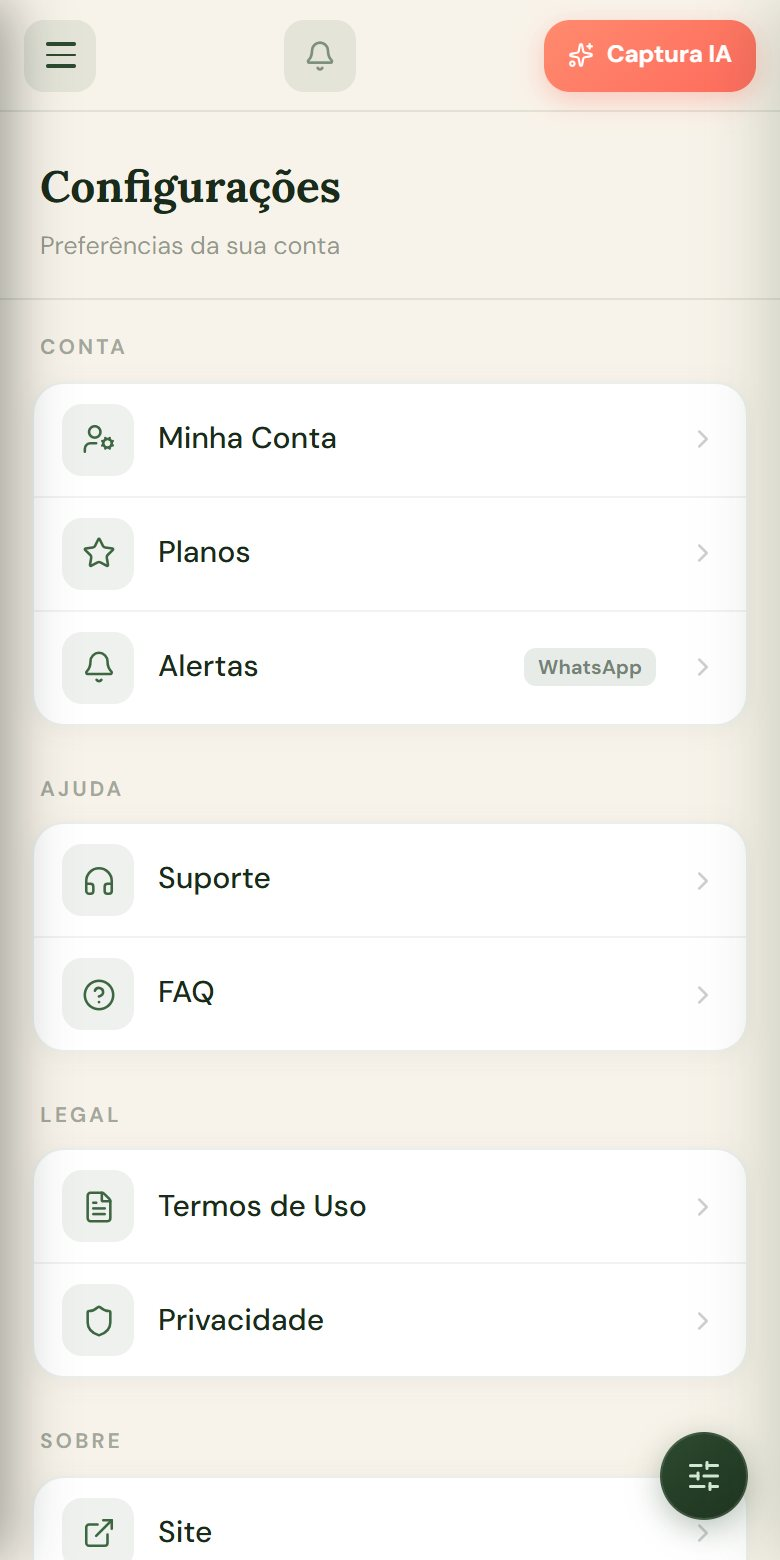
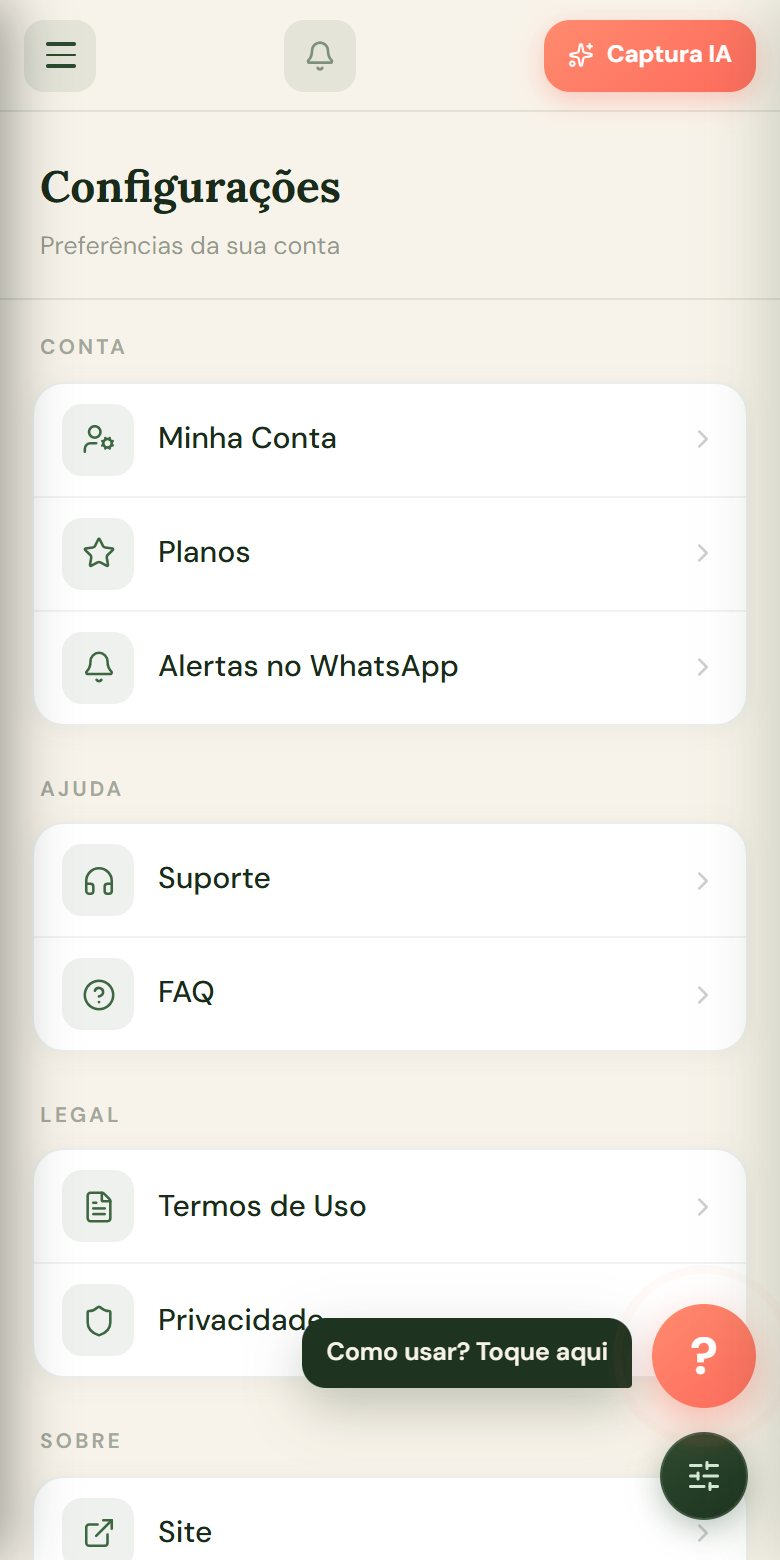
Básico: cadeado em Compartilhar Acesso; tutorial e tela com "Alertas no WhatsApp"; cadastro pede a senha duas vezes

diff --git a/src/app/auth/signup/page.tsx b/src/app/auth/signup/page.tsx
@@ -21,6 +21,7 @@ export default function SignupPage() {
   const [familyName, setFamilyName] = useState('')
   const [email, setEmail] = useState('')
   const [password, setPassword] = useState('')
+  const [password2, setPassword2] = useState('')
   const [phone, setPhone] = useState('')
   const [cpf, setCpf] = useState('')
   const [endereco, setEndereco] = useState<Address>(EMPTY_ADDRESS)
@@ -49,6 +50,7 @@ export default function SignupPage() {
   async function handleSubmit(e: React.FormEvent) {
     e.preventDefault()
     if (password.length < 8) { setError('A senha deve ter pelo menos 8 caracteres.'); return }
+    if (password !== password2) { setError('As senhas não conferem. Digite a mesma senha nos dois campos.'); return }
     if (!isValidPhoneBR(phone)) { setError('Celular inválido. Use DDD + número.'); return }
     if (!source) { setError('Conte como você nos conheceu.'); return }
     if (!isInvite && name.trim().split(/\s+/).filter(p => p.length >= 2).length < 2) { setError('Informe seu nome e sobrenome.'); return }
@@ -318,7 +320,7 @@ export default function SignupPage() {
               <div>
                 <label className="block text-xs font-semibold mb-2" style={{ color: '#8585A8' }}>Senha</label>
                 <div className="relative">
-                  <input type={showPw ? 'text' : 'password'} required value={password}
+                  <input type={showPw ? 'text' : 'password'} required value={password} autoComplete="new-password"
                     onChange={e => setPassword(e.target.value)}
                     placeholder="Mínimo 8 caracteres" className="input-field pr-11" />
                   <button type="button" onClick={() => setShowPw(!showPw)} tabIndex={-1}
@@ -334,6 +336,16 @@ export default function SignupPage() {
                         style={{ background: password.length >= n * 2 ? (password.length >= 8 ? '#A8DDB5' : '#FFE4A0') : '#E8E4FF' }} />
                     ))}
                   </div>
+                )}
+              </div>
+
+              <div>
+                <label className="block text-xs font-semibold mb-2" style={{ color: '#8585A8' }}>Repita a senha</label>
+                <input type={showPw ? 'text' : 'password'} required value={password2} autoComplete="new-password"
+                  onChange={e => setPassword2(e.target.value)}
+                  placeholder="Digite a senha de novo" className="input-field" />
+                {password2.length > 0 && password2 !== password && (
+                  <p className="text-xs mt-1.5" style={{ color: '#C2410C' }}>As senhas não conferem.</p>
                 )}
               </div>
 

diff --git a/src/components/layout/AppLayout.tsx b/src/components/layout/AppLayout.tsx
@@ -34,7 +34,7 @@ interface Props {
   isAdmin?: boolean
   /** Usuário logado: chave das preferências do tutorial neste navegador. */
   userId?: string
-  /** Plano da família: decide os cadeados (Logística, Alertas no WhatsApp). */
+  /** Plano da família: decide os cadeados (Logística, Compartilhar Acesso, Alertas no WhatsApp). */
   plano?: PlanId
 }
 
@@ -55,6 +55,8 @@ export default function AppLayout({ children, sidebarChildren: initial, activeFa
   const { abrir: abrirUpsell } = useUpsell()
   const travaLogistica: RecursoUpsell | undefined = plano !== 'pausada' && !PLAN_LIMITS[plano].logistics ? 'logistica' : undefined
   const travaWhatsapp: RecursoUpsell | undefined = plano !== 'pausada' && !PLAN_LIMITS[plano].whatsapp ? 'whatsapp' : undefined
+  // Plano sem rede de apoio (Básico): "Compartilhar Acesso" com cadeado, como a Logística.
+  const travaRede: RecursoUpsell | undefined = plano !== 'pausada' && PLAN_LIMITS[plano].partners === 0 ? 'rede' : undefined
   const pathname = usePathname()
   const router   = useRouter()
 
@@ -371,7 +373,7 @@ export default function AppLayout({ children, sidebarChildren: initial, activeFa
                   rodapé, e dois elementos com o mesmo data-tour fariam o tour
                   apontar para o primeiro do DOM. */}
               <NavItem href="/children"      label="Meus Filhos"        icon={Users} />
-              <NavItem href="/configuracoes" label="Compartilhar Acesso" icon={UserPlus} tourId="nav-invite" />
+              <NavItem href="/configuracoes" label="Compartilhar Acesso" icon={UserPlus} tourId="nav-invite" trava={travaRede} />
             </div>
           </nav>
 
@@ -667,7 +669,7 @@ export default function AppLayout({ children, sidebarChildren: initial, activeFa
           <div style={{ height:1, background:'rgba(91,143,94,0.18)', margin:'6px 16px' }} />
 
           <MobileNavItem href="/children"      icon={Users}    label="Meus Filhos"        tourId="nav-children" />
-          <MobileNavItem href="/configuracoes" icon={UserPlus} label="Compartilhar Acesso" tourId="nav-invite" />
+          <MobileNavItem href="/configuracoes" icon={UserPlus} label="Compartilhar Acesso" tourId="nav-invite" trava={travaRede} />
         </div>
 
         {/* Footer: Configurações → /settings + Sair */}

diff --git a/src/components/tutorial/passos.tsx b/src/components/tutorial/passos.tsx
@@ -115,21 +115,21 @@ export const PASSOS: Passo[] = [
     ir: { rotulo: 'Ir para Meus Filhos', href: '/children' },
   },
   {
-    id: 'alertas', titulo: 'Ajuste o resumo diário do WhatsApp', onde: ['☰ Menu', 'Configurações', 'Alertas'],
+    id: 'alertas', titulo: 'Ajuste o resumo diário do WhatsApp', onde: ['☰ Menu', 'Configurações', 'Alertas no WhatsApp'],
     pago: 'O resumo diário no WhatsApp está disponível somente nos planos Família e Plus.', recurso: 'whatsapp',
     guia: {
       img: <Menu itens={['menu-config']} />,
       celular: <>Abra o menu <B>☰</B> e toque em <B>Configurações</B>, no pé do menu.</>,
-      computador: <>No pé do menu à esquerda, clique em <B>Configurações</B> e depois em <B>Alertas</B>.</>,
+      computador: <>No pé do menu à esquerda, clique em <B>Configurações</B> e depois em <B>Alertas no WhatsApp</B>.</>,
     },
     quadros: [
-      { txt: <>Em Configurações, toque em <B>Alertas</B>.</>,
-        img: <Foto arq="config" y0={0.258} y1={0.598} alvos={['config']} alt="Tela Configurações, com o item Alertas contornado" /> },
+      { txt: <>Em Configurações, toque em <B>Alertas no WhatsApp</B>.</>,
+        img: <Foto arq="config" y0={0.258} y1={0.598} alvos={['config']} alt="Tela Configurações, com o item Alertas no WhatsApp contornado" /> },
       { txt: <>Confira o número e o <B>horário do envio</B>. Depois toque em <B>Enviar resumo de teste agora</B>.</>,
-        img: <Foto arq="alertas" y0={0.4} y1={0.87} alvos={['alertas']} alt="Tela Alertas, com o botão de enviar resumo de teste contornado" /> },
+        img: <Foto arq="alertas" y0={0.4} y1={0.87} alvos={['alertas']} alt="Tela Alertas no WhatsApp, com o botão de enviar resumo de teste contornado" /> },
     ],
     dica: 'Dá para desligar ou trocar o horário quando quiser.',
-    ir: { rotulo: 'Ir para Alertas', href: '/alertas' },
+    ir: { rotulo: 'Ir para Alertas no WhatsApp', href: '/alertas' },
   },
   {
     id: 'compartilhar', titulo: 'Compartilhe com sua rede de apoio', onde: ['☰ Menu', 'Compartilhar Acesso'], exige: 'dono',

diff --git a/src/app/(app)/alertas/AlertasClient.tsx b/src/app/(app)/alertas/AlertasClient.tsx
@@ -103,7 +103,7 @@ export default function AlertasClient({ userId, userEmail, whatsapp, prefilledFr
           🔔 Notificações
         </p>
         <h1 style={{ fontFamily: 'var(--font-lora)', fontSize: 24, fontWeight: 700, color: '#1A2B1C' }}>
-          Alertas
+          Alertas no WhatsApp
         </h1>
         <p style={{ fontSize: 13, color: 'rgba(26,43,28,0.45)', marginTop: 2 }}>
           {userEmail}
